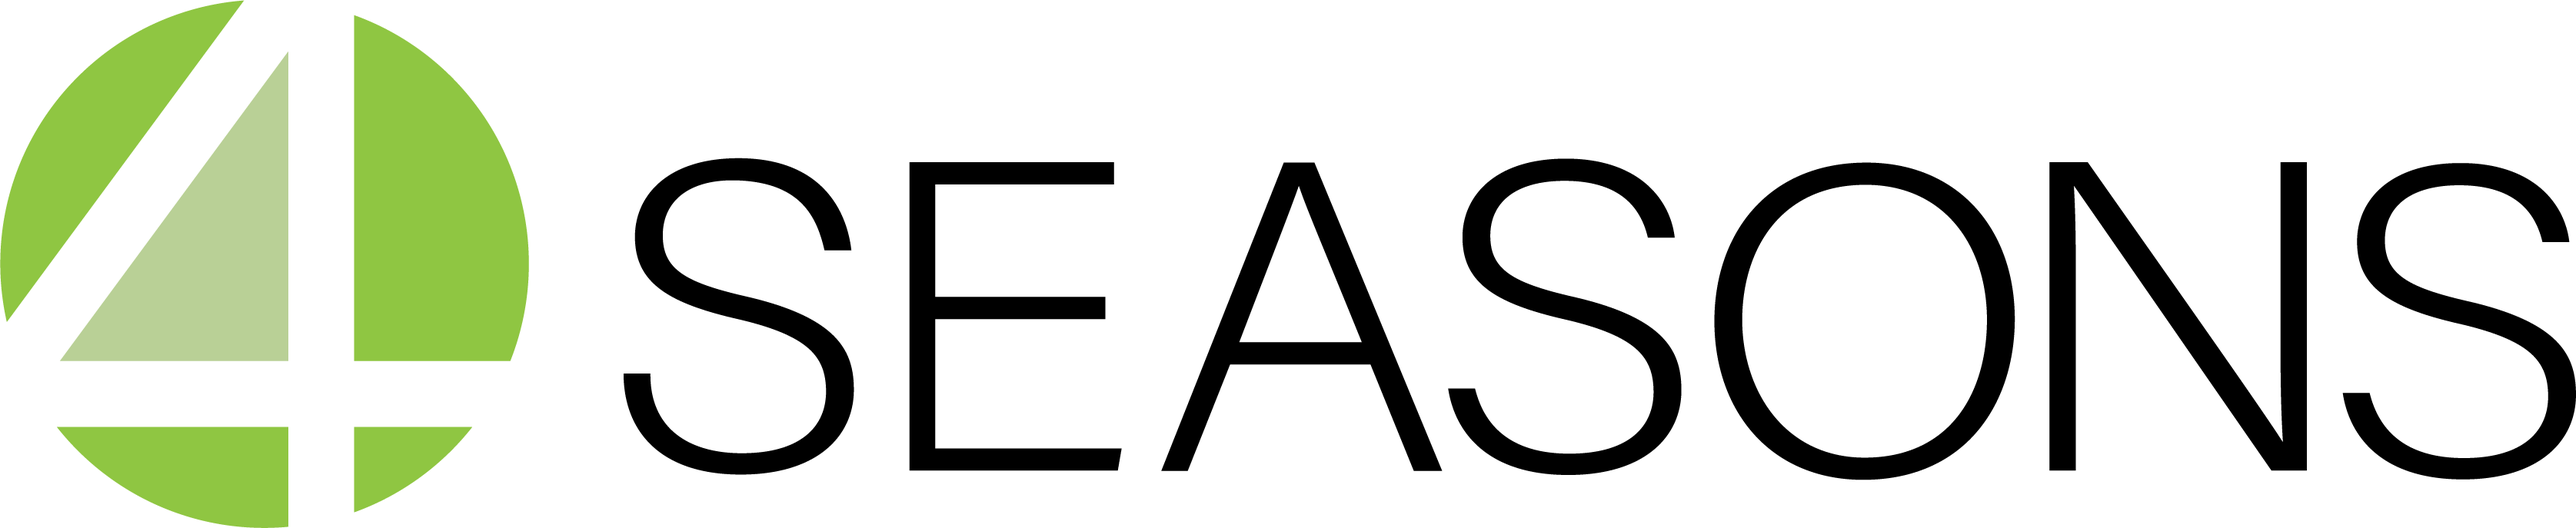
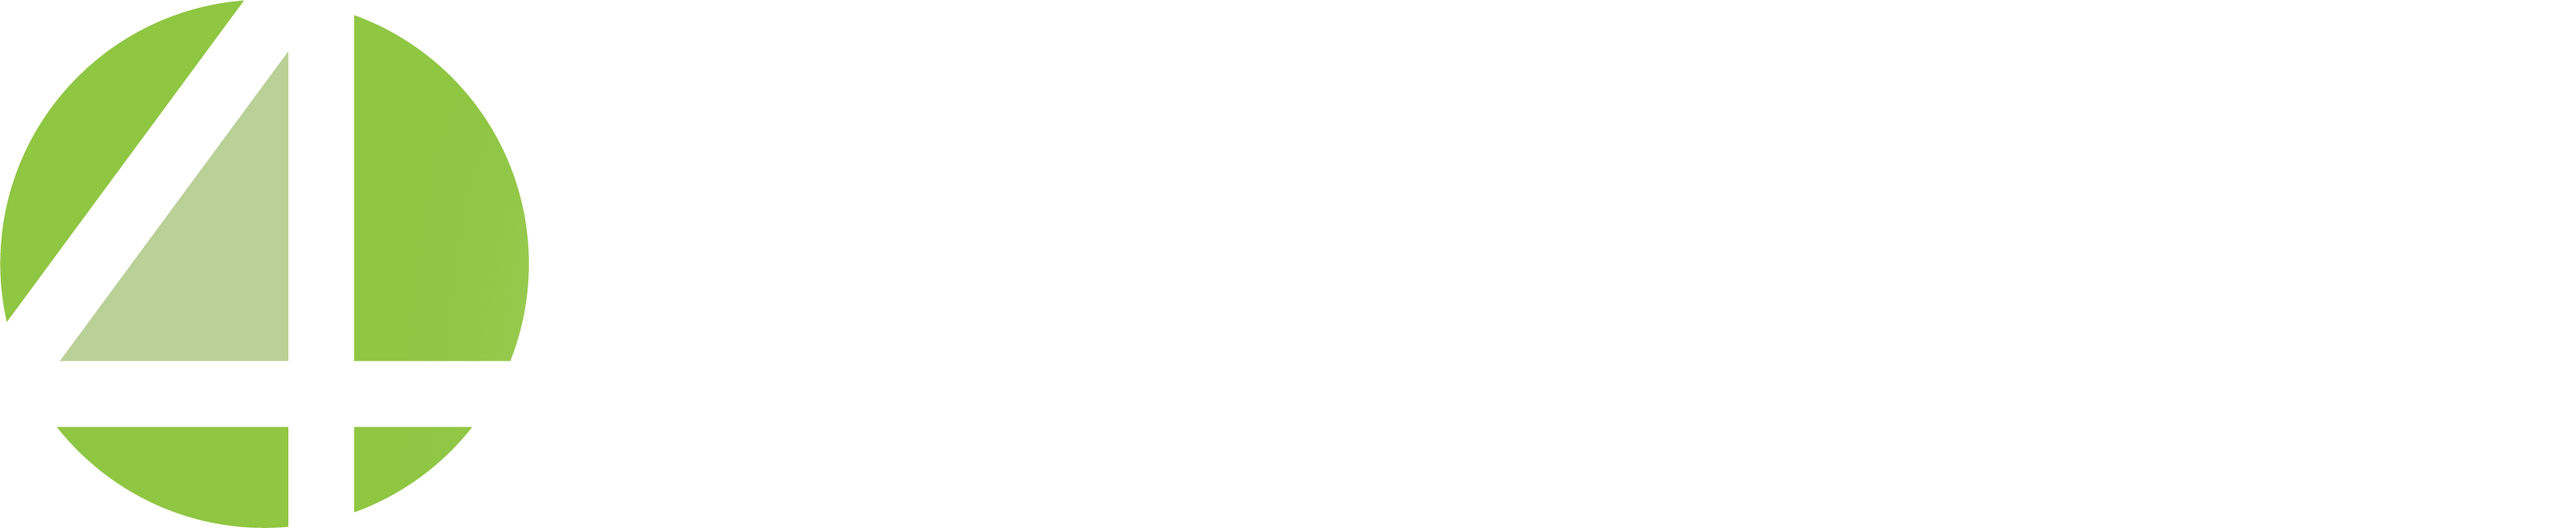
visual changes

Changed region(s): [[0.2173, 0.2751, 1.0, 0.917]]

diff --git a/public/css/styles.css b/public/css/styles.css
@@ -1,14 +1,30 @@
+body {
+  font-family: "Montserrat", sans-serif;
+  margin: 0;
+  padding: 0;
+}
+
 /****************************************************************NAVBAR***************************************************/
+
 .navbar {
   position: fixed;
   width: 100%;
   z-index: 100;
+  background-color: #20262e; /* set initial background to semi-opaque white */
+  transition: background-color 0.9s ease-in-out; /* animate background-color changes */
+}
+
+.navbar.transparent {
+  background-color: rgba(255, 255, 255, 0); /* set transparent background */
+}
+
+.navbar .nav-item a {
+  color: white;
 }
 .text {
   margin-right: 20rem;
-  font-family: "Taviraj", sans-serif;
   font-size: 1.1rem;
-  font-weight: 300;
+  font-weight: 500;
 }
 .logo {
   padding-left: 15rem;
@@ -23,15 +39,38 @@
 
 /****************************************************************LANDING************************************************************/
 .img-container {
-  background-image: url("images/greenhouse.png");
-  background-size: cover;
   width: 100%;
   height: 100%;
+  position: relative;
+}
+
+.img-container .wallpaper {
+  width: 100%;
+  height: auto;
+}
+.img-container h1 {
+  font-family: "Josefin Sans", sans-serif;
+  text-align: right;
+  position: absolute;
+  color: #8fc642;
+  right: 35%;
+  top: 18%;
+  font-size: 6vw;
+  font-weight: 700;
+  margin-right: 10rem;
+  padding-left: 40rem;
+}
+.img-container .fourlogo {
+  position: absolute;
+  height: 25vw;
+  width: 25vw;
+  left: 60%;
+  top: 15%;
 }
 
 /****************************************************************KARHANAMYZ BARADA***************************************************/
 .hyzmatlarymyz {
-  padding-top: 7.5rem;
+  padding-top: 5rem;
   padding-bottom: 5rem;
   background-image: url(images/background.png);
   background-repeat: no-repeat;
@@ -50,7 +89,6 @@
 }
 .yazlytext {
   margin-top: 1rem;
-  font-family: "Taviraj", sans-serif;
   font-style: italic;
 }
 .yazly-yazi {
@@ -66,13 +104,11 @@
 }
 
 .yazly-yazi p {
-  font-family: "Taviraj", sans-serif;
   font-size: 1.1rem;
   font-weight: 300;
   padding: 0 20rem;
 }
 .yazly-yazi h3 {
-  font-family: "Taviraj", sans-serif;
   font-size: 1.6rem;
   font-weight: 700;
 }
@@ -87,8 +123,8 @@
   display: flex;
   justify-content: center;
   align-items: center;
-  font-family: "Taviraj", sans-serif;
-  font-weight: 700;
+  font-weight: 800;
+  font-style: italic;
 }
 /****************************************************************HYZMATYLARYMYZ********************************************************************/
 .grid-container {
@@ -116,7 +152,7 @@
   width: 100%;
   height: 100%;
   object-fit: cover;
-  transition: transform 0.5s ease-in-out;
+  transition: transform 0.3s ease-in-out;
 }
 .grid-img:hover {
   transform: scale(1.01);
@@ -135,7 +171,7 @@
   width: 85%;
   height: 11rem;
   background-color: #f9f7f7;
-  transition: transform 0.5s ease-in-out;
+  transition: transform 0.3s ease-in-out;
   transition: border-top 0.3s ease; /* add transition to make the border appear smoothly */
   box-shadow: 0 0 10px rgba(0, 0, 0, 0.5); /* add a black shadow */
 }
@@ -143,7 +179,6 @@
   margin-top: 1rem;
   padding: 0 6rem;
   text-align: center;
-  font-family: "Taviraj", sans-serif;
   font-weight: 500;
   font-size: 1.3rem;
   transition: 0.3 ease;
@@ -151,7 +186,6 @@
 
 .grid-item2 p {
   margin-top: 1rem;
-  font-family: "Taviraj", sans-serif;
   text-align: center;
   font-weight: 300;
   padding: 0 2rem;
@@ -174,6 +208,8 @@
   margin: 2rem;
   background-color: #ccc;
   text-align: center;
+  border: solid 3px;
+  border-color: white;
 }
 
 .galereya-img {
@@ -202,7 +238,6 @@
   padding-left: 30rem;
   padding-top: 3rem;
   padding-bottom: 3rem;
-  font-family: "Taviraj", sans-serif;
 }
 
 .footer-distributed .footer-left,
@@ -431,5 +466,38 @@
     text-align: center;
     font-weight: 300;
     padding: 0 1rem;
+  }
+
+  .img-container {
+    width: 100%;
+    height: auto;
+    position: relative;
+  }
+
+  .img-container .wallpaper {
+    width: 100%;
+    height: auto;
+  }
+  .img-container h1 {
+    font-family: "Josefin Sans", sans-serif;
+    text-align: right;
+    position: absolute;
+    color: #8fc642;
+    right: 14%;
+    top: 28%;
+    font-size: 4vw;
+    font-weight: 700;
+    margin-right: 10rem;
+    padding-left: 40rem;
+  }
+  .img-container .fourlogo {
+    position: absolute;
+    height: 17vw;
+    width: 17vw;
+    left: 55%;
+    top: 23%;
+  }
+  .logo123 {
+    scale: 0.5;
   }
 }

diff --git a/index.html b/index.html
@@ -13,21 +13,22 @@
     <link rel="preconnect" href="https://fonts.googleapis.com" />
     <link rel="preconnect" href="https://fonts.gstatic.com" crossorigin />
     <link
-      href="https://fonts.googleapis.com/css2?family=Taviraj:ital,wght@0,200;0,300;0,400;0,500;0,600;0,700;0,800;0,900;1,100;1,200;1,300;1,400;1,500;1,600;1,700;1,800;1,900&family=Ubuntu:wght@300;500;700&display=swap"
+      href="https://fonts.googleapis.com/css2?family=Josefin+Sans:ital,wght@0,100;0,200;0,300;0,400;0,500;0,600;0,700;1,100;1,200;1,300;1,400;1,500;1,600;1,700&family=Kumbh+Sans:wght@100;200;300;400;500;600;700;800;900&family=Montserrat:ital,wght@0,100;0,200;0,300;0,400;0,500;0,600;0,700;0,800;0,900;1,100;1,200;1,300;1,400;1,500;1,600;1,700;1,800;1,900&family=Open+Sans:ital,wght@0,300;0,400;0,500;0,600;0,700;0,800;1,300;1,400;1,500;1,600;1,700;1,800&family=Taviraj:ital,wght@0,200;0,300;0,400;0,500;0,600;0,700;0,800;0,900;1,100;1,200;1,300;1,400;1,500;1,600;1,700;1,800;1,900&display=swap"
       rel="stylesheet"
-    />
-    <link
-      rel="stylesheet"
-      href="https://use.fontawesome.com/releases/v5.15.3/css/all.css"
     />
   </head>
 
   <body>
     <!-------------------------------------------------------------------NAVBAR-------------------------------------------------------------->
 
-    <nav class="navbar navbar-expand-lg logo" style="background-color: white">
+    <nav class="navbar navbar-expand-lg logo">
       <a class="navbar-brand" href="#"
-        ><img src="images/4pasyl.png" width="245" height="50" alt="Your Logo"
+        ><img
+          class="logo123"
+          src="images/4pasyl.png"
+          width="245"
+          height="50"
+          alt="Your Logo"
       /></a>
 
       <!--
@@ -57,7 +58,7 @@
             <a class="nav-link" href="#">Biz barada</a>
           </li>
           <li class="nav-item">
-            <a class="nav-link" href="#">Galereya</a>
+            <a class="nav-link" href="#">Galereýa</a>
           </li>
           <li class="nav-item">
             <a class="nav-link" href="#">Habarlaşmak üçin </a>
@@ -66,7 +67,11 @@
       </div>
     </nav>
     <!-------------------------------------------------------------------LANDING-------------------------------------------------------------->
-    <div class="img-container"></div>
+    <div class="img-container">
+      <img class="wallpaper" src="images/wallpaper.jpg" alt="Image" />
+      <img class="fourlogo" src="images/logo.png" alt="" />
+      <h1>ÝOKARY HİL TÖTÄNLEÝIN DÄLDİR</h1>
+    </div>
 
     <!-------------------------------------------------------------------HYZMATLARYMYZ-TEXT-------------------------------------------------------------->
     <div class="hyzmatlarymyz">
@@ -137,7 +142,7 @@
     </div>
     <!-------------------------------------------------------------------KARHANA-TEXT-------------------------------------------------------------->
     <div class="karhana">
-      <h3>KÄRHANAMYZ BARADA</h3>
+      <h3>Kärhanamyz Barada</h3>
     </div>
     <!-------------------------------------------------------------------KARHANAMYZ BARADA-------------------------------------------------------------->
 
@@ -280,6 +285,7 @@
         </div>
       </div>
     </footer>
+    <script src="js/index.js"></script>
     <script src="https://cdn.jsdelivr.net/npm/bootstrap@5.3.0-alpha1/dist/js/bootstrap.bundle.min.js"></script>
   </body>
 </html>

diff --git a/public/js/index.js b/public/js/index.js
@@ -1,0 +1,13 @@
+const navbar = document.querySelector(".navbar");
+
+window.addEventListener("scroll", () => {
+  if (window.pageYOffset > 0) {
+    navbar.classList.remove(
+      "transparent"
+    ); /* add transparent class when scrolling */
+  } else {
+    navbar.classList.add(
+      "transparent"
+    ); /* remove transparent class when at top of page */
+  }
+});
